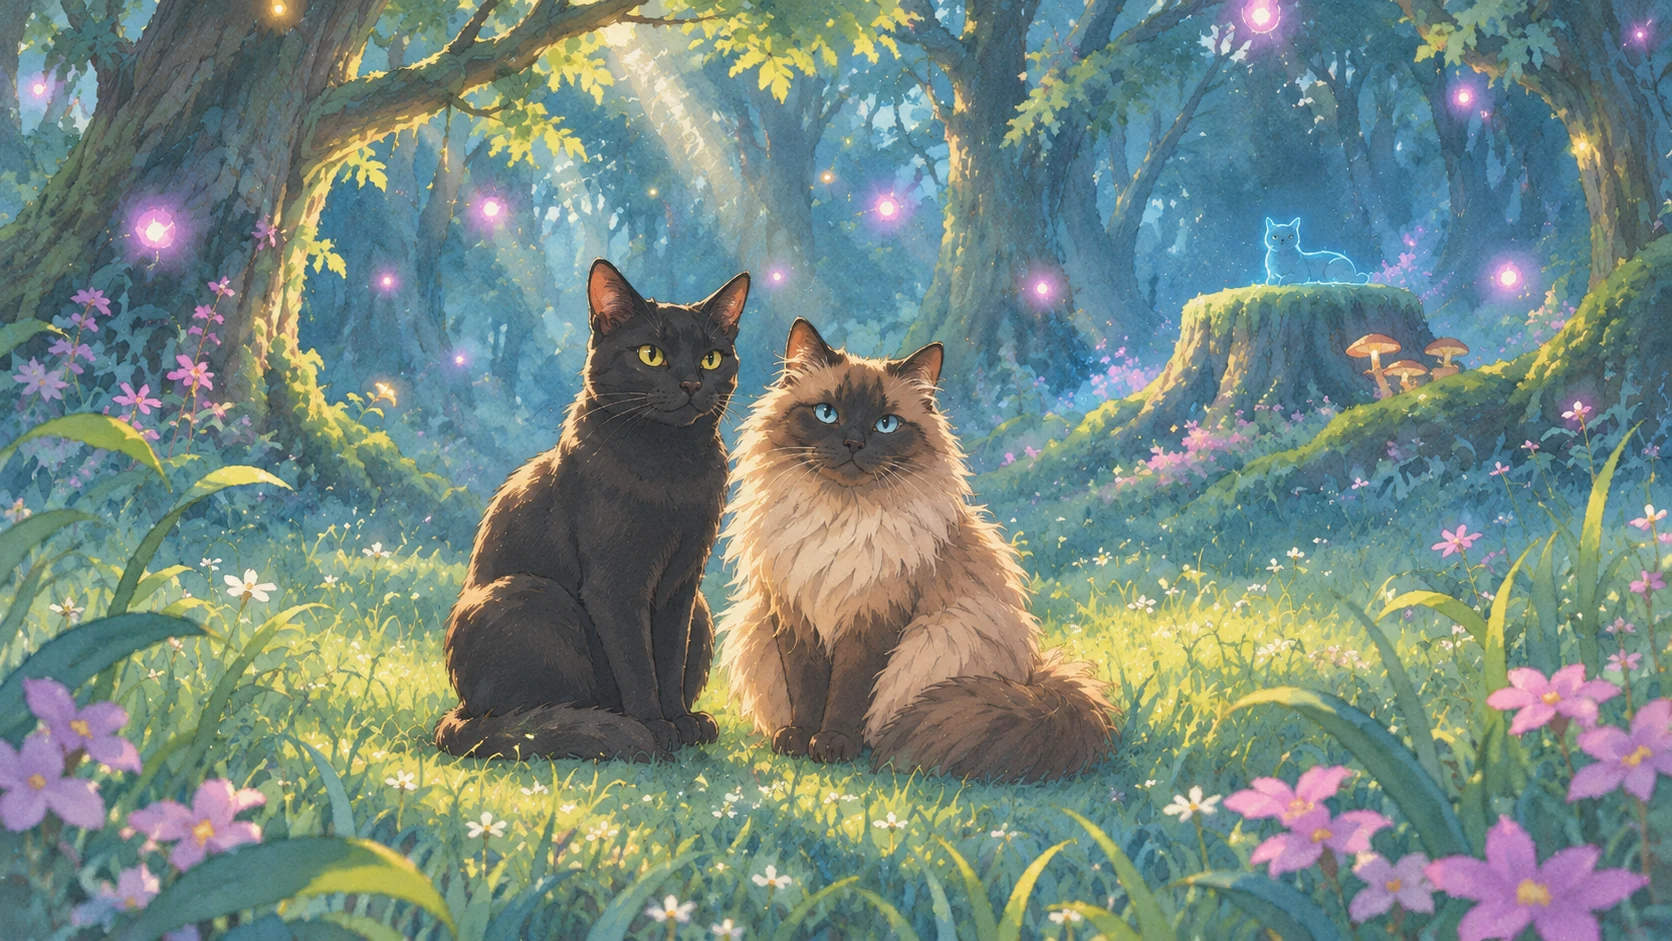
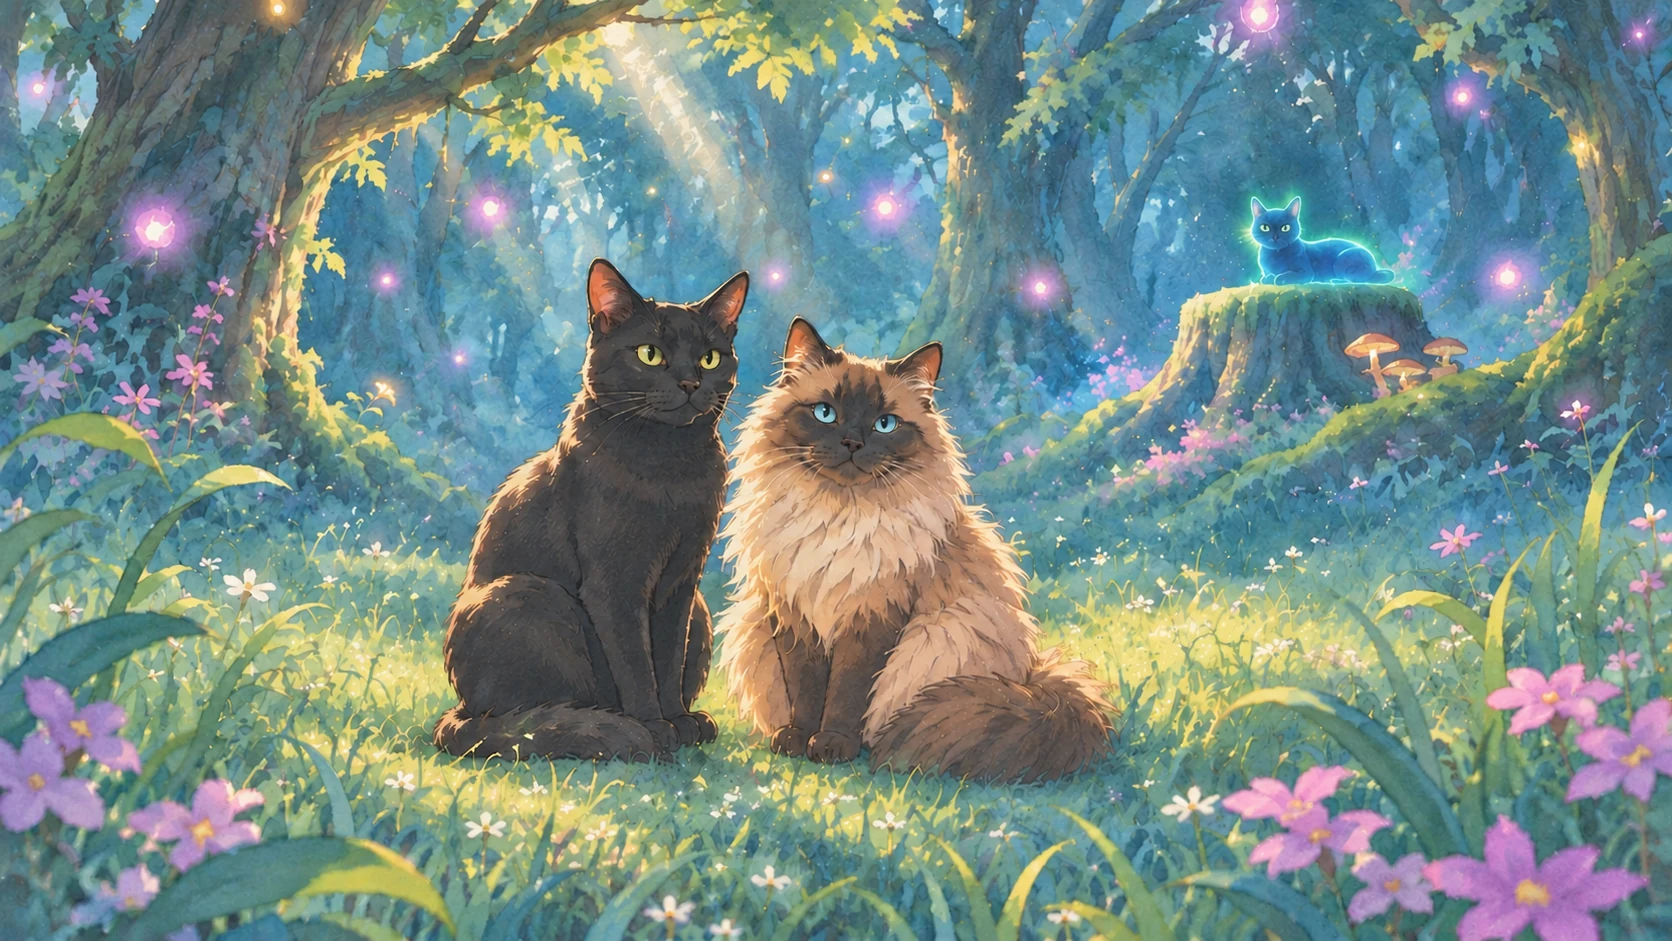
New title screen art (updated Jack)
Claude-Session: https://claude.ai/code/session_01GJhXGuUsebhHztMA9gW3fZ

diff --git a/tinks-forest/index.html b/tinks-forest/index.html
@@ -64,7 +64,7 @@ canvas{display:block;width:100%;height:100%;outline:none}
 .btns button:hover{background:rgba(95,143,69,.24)}
 .btns button:focus-visible{outline:2px solid var(--sunset)}
 /* welcome: a painted sky with drifting clouds and layered hills, card like a page from a sketchbook */
-#gate{position:fixed;inset:0;display:grid;align-items:start;justify-items:start;padding:clamp(16px,4vw,56px);cursor:pointer;overflow:hidden;background:#3c5e55 url('title-screen.webp?v=5') center 60%/cover no-repeat !important;
+#gate{position:fixed;inset:0;display:grid;align-items:start;justify-items:start;padding:clamp(16px,4vw,56px);cursor:pointer;overflow:hidden;background:#3c5e55 url('title-screen.webp?v=6') center 60%/cover no-repeat !important;
   background:linear-gradient(180deg,#5f9fd0 0%,#8fc1df 38%,#d9e9e4 64%,#f3e7c8 78%,#cfe0b0 100%)}
 #gate .sky{position:absolute;inset:0;pointer-events:none}
 #gate .cloud{position:absolute;border-radius:50%;filter:blur(1.5px);opacity:.95;
@@ -115,7 +115,7 @@ body.studio #brand,body.studio #status,body.studio #help,body.studio #hudBtn,bod
 @media (max-width:720px){#gate{align-items:end;justify-items:center;background-position:62% 50% !important}#help{display:none}#tune{width:auto;left:16px}}
 @media (prefers-reduced-motion:reduce){#toast{transition:none}#gate .cloud{animation:none}}
 
-#gate{background:#1d302b url('title-screen.webp?v=5') center 62%/cover no-repeat !important;display:block !important;padding:0 !important}#gate[hidden]{display:none !important}
+#gate{background:#1d302b url('title-screen.webp?v=6') center 62%/cover no-repeat !important;display:block !important;padding:0 !important}#gate[hidden]{display:none !important}
 #gate .g-shade{position:absolute;inset:0;pointer-events:none;background:linear-gradient(to bottom,rgba(12,26,22,.62) 0%,rgba(12,26,22,.18) 34%,rgba(12,26,22,0) 52%,rgba(12,26,22,.12) 70%,rgba(10,22,18,.66) 100%)}
 #gate .g-build{position:absolute;left:calc(24px + env(safe-area-inset-left,0px));bottom:calc(16px + env(safe-area-inset-bottom,0px));font:600 10px "Montserrat",var(--f-ui);letter-spacing:.2em;text-transform:uppercase;color:rgba(255,253,244,.55);z-index:2}
 .g-corner{position:absolute;top:calc(18px + env(safe-area-inset-top,0px));left:calc(24px + env(safe-area-inset-left,0px));text-align:left;font-family:"Montserrat",var(--f-ui);font-weight:600;font-size:12px;letter-spacing:.16em;text-transform:uppercase;color:rgba(255,253,244,.88);line-height:1.5}
@@ -458,6 +458,6 @@ window.__THEME=(()=>{let done=false;const a=new Audio('audio/music/spring-title-
  b.addEventListener('click',e=>{e.stopPropagation();if(on){want=false;stop(600)}else{want=true;start()}});
  start();for(const ev of ['pointerdown','keydown'])addEventListener(ev,start,{once:true,capture:true});return {stop,play:()=>{done=false;want=true;start()}}})();</script>
 <script type="importmap">{"imports":{"three":"./three.module.js","three/addons/":"./jsm/"}}</script>
-<script>(async()=>{const u="./game.js?v=1794419403";let txt=null;for(let t=0;t<4&&!txt;t++){try{const r=await fetch(u,t?{cache:"reload"}:undefined);const x=await r.text();if(r.ok&&x.includes("/*GAME-END*/"))txt=x}catch(e){}if(!txt)await new Promise(r=>setTimeout(r,500*(t+1)))}
+<script>(async()=>{const u="./game.js?v=1794420586";let txt=null;for(let t=0;t<4&&!txt;t++){try{const r=await fetch(u,t?{cache:"reload"}:undefined);const x=await r.text();if(r.ok&&x.includes("/*GAME-END*/"))txt=x}catch(e){}if(!txt)await new Promise(r=>setTimeout(r,500*(t+1)))}
  if(!txt){const g=document.getElementById("goTxt");if(g)g.textContent="Could not download the game. Please reload";return}
  const sc=document.createElement("script");sc.type="module";sc.src=URL.createObjectURL(new Blob([txt],{type:"text/javascript"}));document.body.appendChild(sc)})()</script>

diff --git a/tinks-forest/studio.html b/tinks-forest/studio.html
@@ -113,6 +113,6 @@ body.ready #load{opacity:0;pointer-events:none}
 <a id="gameLink" href="index.html">Back to the game →</a>
 <div id="toast"></div>
 <script type="importmap">{"imports":{"three":"./three.module.js","three/addons/":"./jsm/"}}</script>
-<script>(async()=>{const u="./studio.js?v=1794419403";let txt=null;for(let t=0;t<4&&!txt;t++){try{const r=await fetch(u,t?{cache:"reload"}:undefined);const x=await r.text();if(r.ok&&x.includes("/*GAME-END*/"))txt=x}catch(e){}if(!txt)await new Promise(r=>setTimeout(r,500*(t+1)))}
+<script>(async()=>{const u="./studio.js?v=1794420586";let txt=null;for(let t=0;t<4&&!txt;t++){try{const r=await fetch(u,t?{cache:"reload"}:undefined);const x=await r.text();if(r.ok&&x.includes("/*GAME-END*/"))txt=x}catch(e){}if(!txt)await new Promise(r=>setTimeout(r,500*(t+1)))}
  if(!txt){document.getElementById("goTxt").textContent="Could not download the studio. Please reload";return}
  const sc=document.createElement("script");sc.type="module";sc.src=URL.createObjectURL(new Blob([txt],{type:"text/javascript"}));document.body.appendChild(sc)})()</script>
